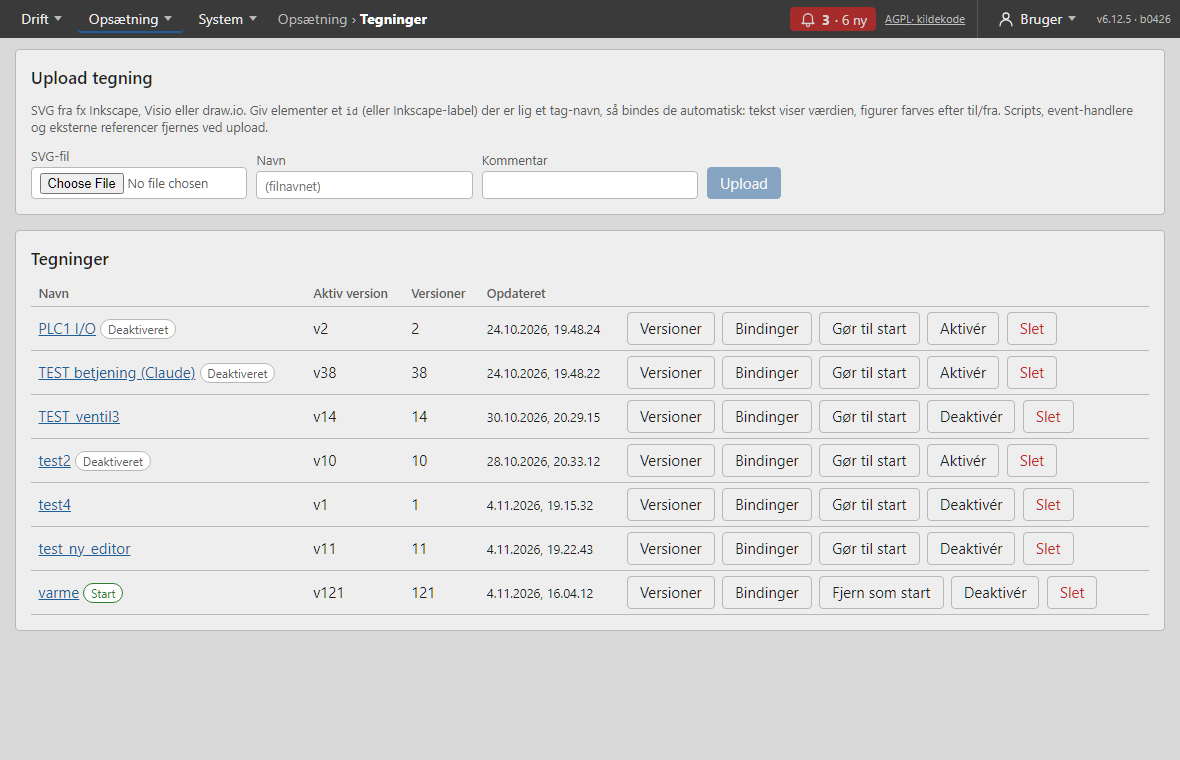
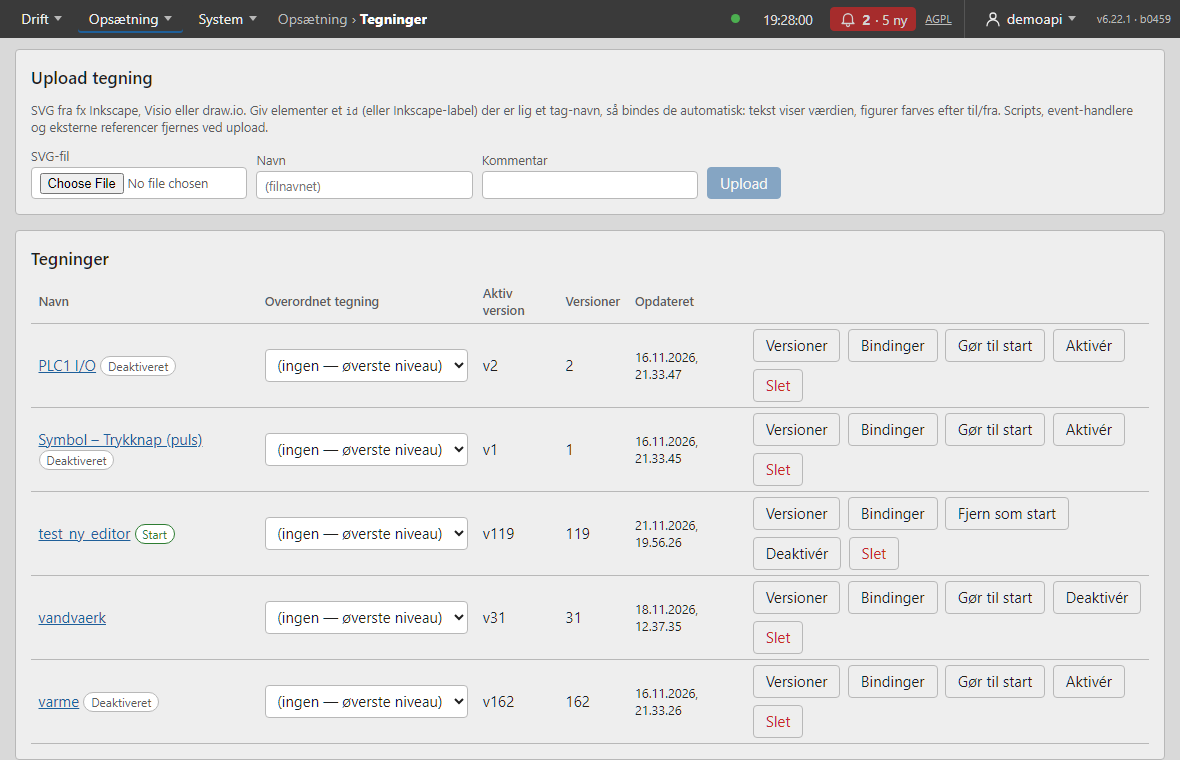
v6.22.1-b0460: manualbillede af siden Tegninger med Overordnet tegning

diff --git a/CHANGELOG.md b/CHANGELOG.md
@@ -4,6 +4,10 @@ Nyeste øverst. Format: `## [version build NNNN] — YYYY-MM-DD — beskrivelse`
 
 ---
 
+## [6.22.1 build 0460] — 2026-11-23 — Manualbillede: siden Tegninger med kolonnen Overordnet tegning
+
+`frontend/public/manual/tegninger.png` er taget igen på demoen (v6.22.1 b0459): kolonnen *Overordnet tegning*, PLC-status som prik, ur og brugernavn i topbaren, og brødkrummen er hel. Funktionstest af hierarkiet på demoen med midlertidige tegninger (sæt/ryd forælder, niveau 5, cirkel, selv, ukendt, uændret, sletning nulstiller børn, audit): alt som forventet, og testtegningerne er slettet igen.
+
 ## [6.22.1 build 0459] — 2026-11-23 — Topbar: brødkrummen blev afkortet ved 1000-1240 px (fejl i 6.21.0)
 
 `frontend/src/App.svelte`: PLC-chippen bliver en prik og ' · kildekode' skjules under 1240 px (før 980 og 800 px). Målt mod den lokale build: ingen afkortning af brødkrummen på nogen af de 20 sider ved ti bredder (981-1920 px) og ingen overløb ved elleve bredder (501-1280 px). Registreret i `BUGS.md`.
